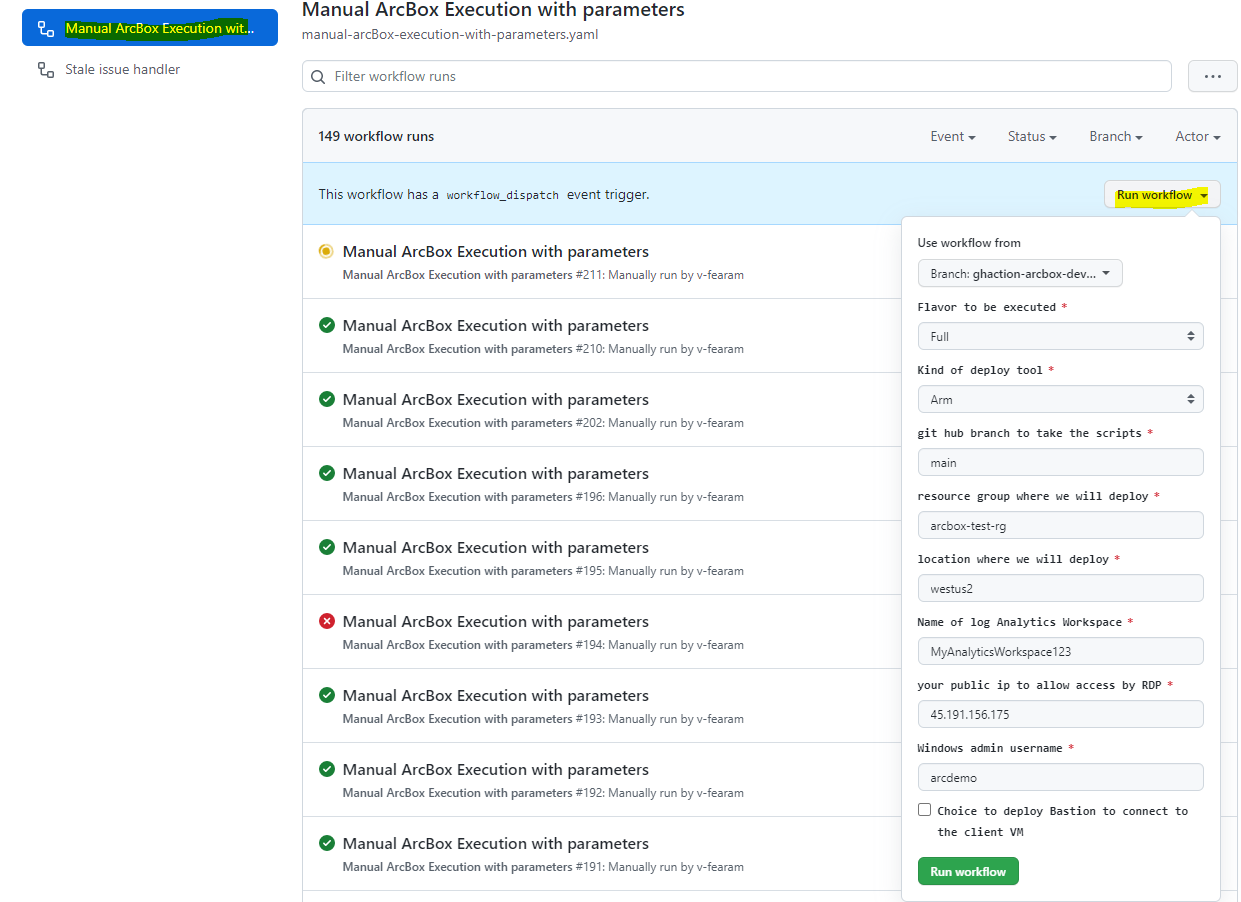
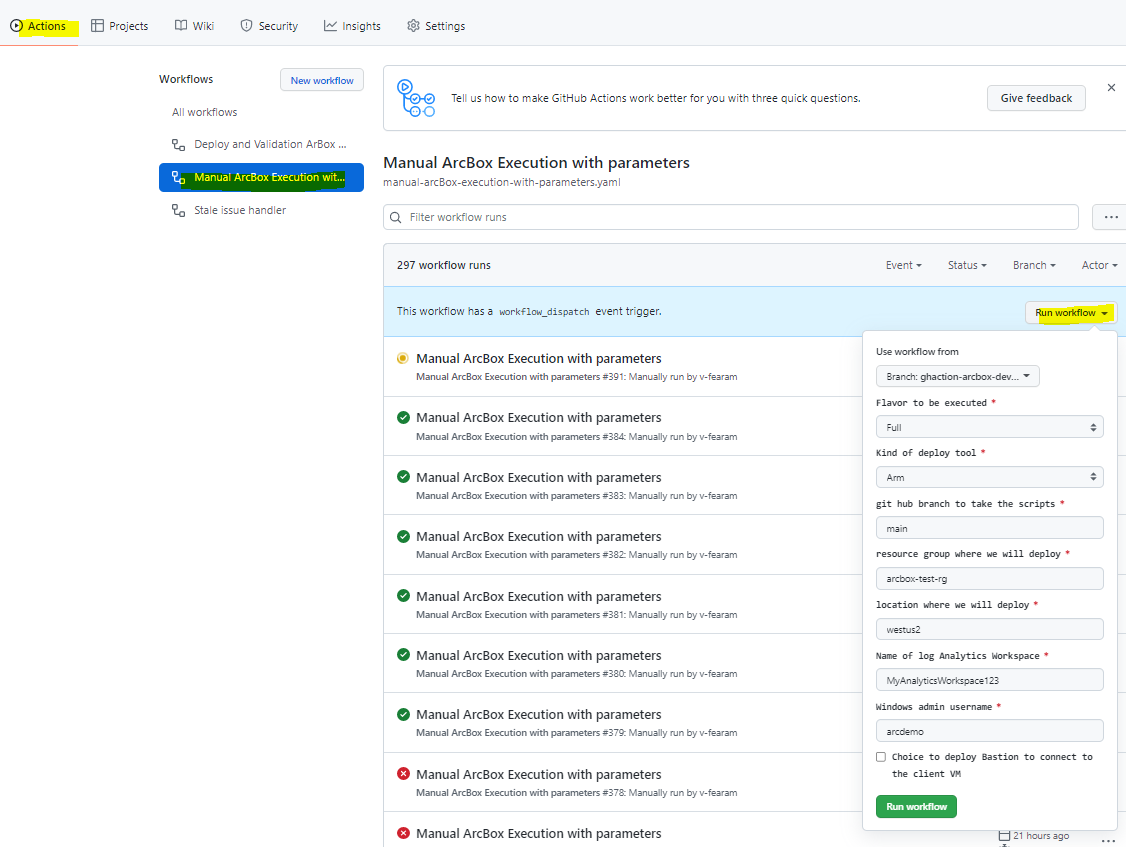
Documentation improvements

diff --git a/automated_testing/ghaction_scripts/GitHubActionDocumentation/ExecuteGitHubActions.md b/automated_testing/ghaction_scripts/GitHubActionDocumentation/ExecuteGitHubActions.md
@@ -1,6 +1,6 @@
 # ArcBox automatic deploy and test
 
-The goal is to provide automation to deploy and test of the arc box scenarios.  
+The goal is to provide automation to deploy and test arcbox scenarios.  
 We decided to use [GitHub Actions](https://docs.github.com/actions).
 
 The workflow is a manual one, you need to execute it when you consider it is proper.
@@ -47,19 +47,18 @@ You need to define SSH_RSA_PUBLIC_KEY (look here [Azure Arc Box deploys](https:/
 
 ## Execute the workflow
 
-We are ready, we need to go to the Action Tab and select our workflow (Manual ArcBox Execution with parameters)
+We are ready, we need to go to the Action Tab and select our workflow (Manual ArcBox Execution with parameters). The workflow file is on `.\.github\workflows\manual-arcBox-execution-with-parameters.yaml` and github is going to read the files in order to give the workflow as option.
 ![image](./GHActionExecution.PNG)
 
 Selecting **Run Workflow**, the parameters will be present.
 
-- The first parameter is which workflow definition we are you going to use
+- The first parameter is which workflow definition we are you going to use (you can have different workflow versions on differs branches)
 - Flavor to be executed, so far Full, ITPro or DevOps
 - Kind of deploy: ARM, Bicep or Terraform
-- Which branch you are going to use to read the scripts
+- Which branch you are going to use to read the arcbox's scripts
 - Resource group name
 - Location
 - Name of log analytic
-- Your public IP v4
 - Windows VM admin username
 - Choice if you like to deploy Bastion to connect to the client VM
 
@@ -85,7 +84,10 @@ On the deploy workflow there are deploy validation that you could check
 
 ![image](./deployValidations.PNG)
 
-After finishing the logs from inside the vm are available
+Final Validation DevOps Scenario Example
+![image](./FinalValidationDevopsScenario.PNG)
+
+After finishing the logs from inside the vm and lint code results are available 
 
 ![image](./logsToDownload.PNG)
 
@@ -93,12 +95,12 @@ After finishing the logs from inside the vm are available
 
 We need to execute 4 script inside the VM on a full deploy to simulate what it happens at LogOn:
 
-- ArcServersLogonScript.ps1, this script is block when execute using OpenSSH, but when we run it using [Widows Run Command](https://docs.microsoft.com/azure/virtual-machines/windows/run-command) it works.
+- ArcServersLogonScript.ps1, this script is block when execute using OpenSSH, but when we run it using [Widows Run Command](https://docs.microsoft.com/azure/virtual-machines/windows/run-command), it works.
 - DataServicesLogonScript.ps1, this script is block when execute using [Widows Run Command](https://docs.microsoft.com/azure/virtual-machines/windows/run-command), so we installed and use OpenSSH to execute it
 - DevOpsLogonScript.ps1, is executed using OpenSSH.
-- MonitorWorkbookLogonScript.ps1, execute in both approaches.
+- MonitorWorkbookLogonScript.ps1, execute in both approaches. It currently is running with OpenSSH
 
-After the incorporation of some security polices to the subscription, the [Widows Run Command](https://docs.microsoft.com/azure/virtual-machines/windows/run-command) start to fail randomly, the failure is described on the note:
+After the incorporation of some security polices to the subscription, the [Widows Run Command](https://docs.microsoft.com/azure/virtual-machines/windows/run-command) start to fail randomly, the failure is described on the note inside the documentation:
 
 "To function correctly, Run Command requires connectivity (port 443) to Azure public IP addresses. If the extension doesn't have access to these endpoints, **the scripts might run successfully but not return the results**. If you're blocking traffic on the virtual machine, you can use service tags to allow traffic to Azure public IP addresses by using the AzureCloud tag."
 
@@ -106,6 +108,6 @@ We were able to check from the log that the command execute correctly, but the a
 
 The ITPro flavor usually works and the Full flavor usually fails. We spouse it is related to the time that the police spent before applying to ClientVM. On ITPro scenario the deploy finish as soon the ClientVM finish, and not in the another case.
 
-We added a kind or "continue on error", and we check a file generated that indicate the script finished the execution. Then it will succeed even after time out. The only secondary effect is the time increase.
+We added a kind or "continue on error", and we check a file generated that indicate the script finished the execution. Then it will succeed even after time out. The only secondary effect is the execution time increase.
 
 [Open SSH](https://docs.microsoft.com/windows-server/administration/openssh/openssh_install_firstuse) is installed using [Widows Run Command](https://docs.microsoft.com/azure/virtual-machines/windows/run-command), and for subscription security polices was moved to port 2204
